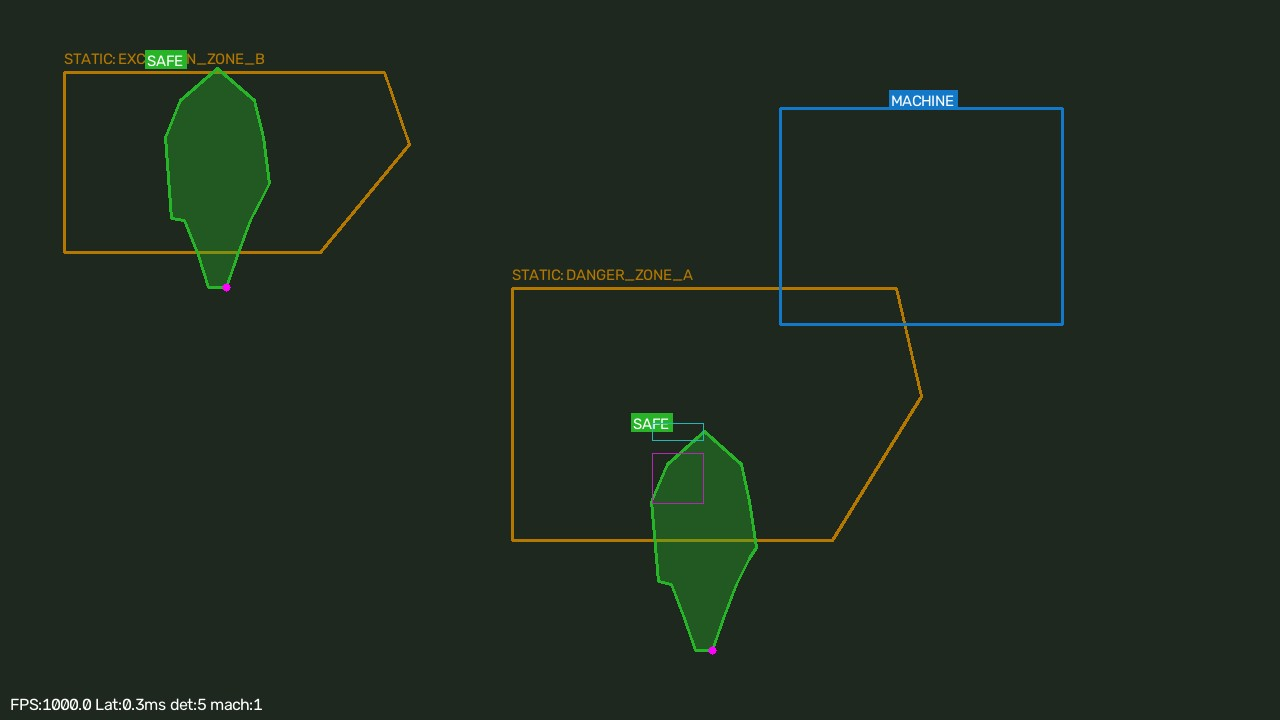
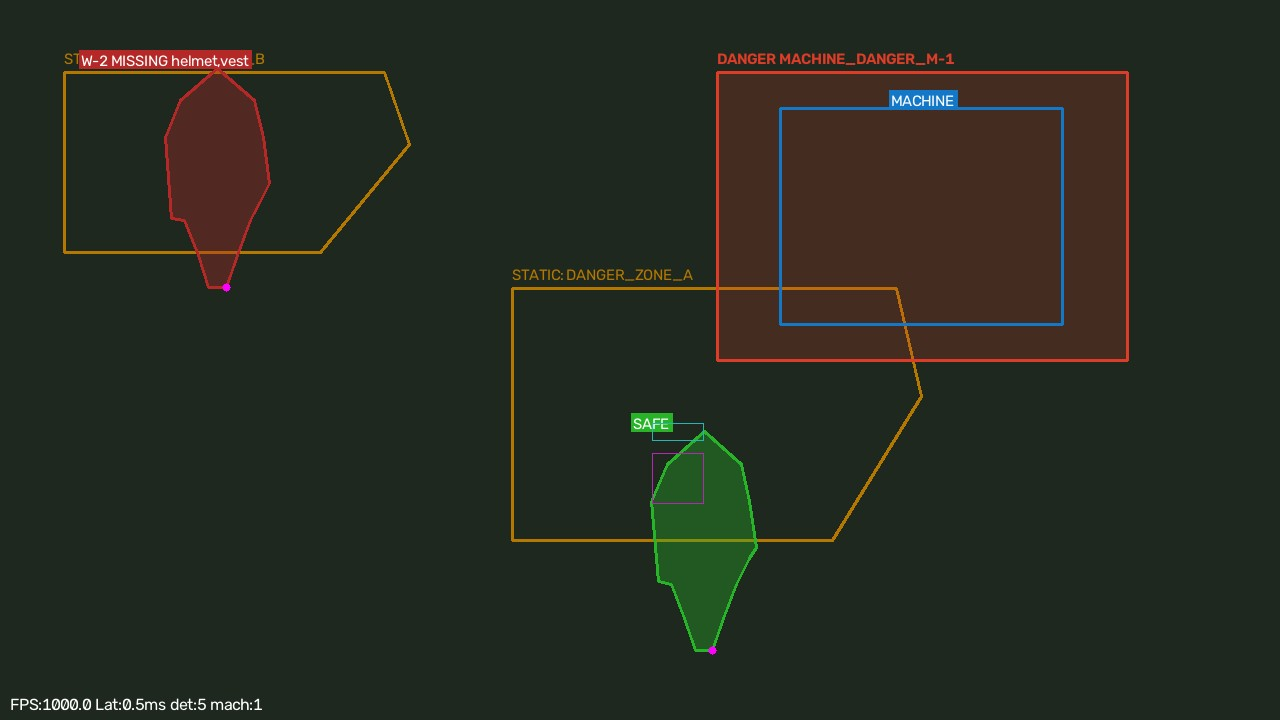
fix: render machine danger zones and violation coloring correctly
- draw_detections now accepts worker_ids so violation highlighting matches
  the tracker's W-N labels (was deriving bogus W-{pixel*1000} labels)
- generate_dashboard_image feeds normalized machine boxes to the tracker so
  the dynamic MACHINE_DANGER zone polygon is drawn at the right place
- regenerate showcase preview with machine zone + violation colors visible

Changed region(s): [[0.5312, 0.0611, 0.9062, 0.5194], [0.0625, 0.0611, 0.2188, 0.3972]]

diff --git a/src/isip/vision/renderer.py b/src/isip/vision/renderer.py
@@ -7,6 +7,10 @@ node, dashboard images and legacy pipeline all render the same world:
   is available, otherwise the bounding box;
 - machines get a highlighted bbox plus their dynamic danger zone;
 - static geofences and dynamic machine zones are visually distinct.
+
+Coordinate convention: all geometry handed to the renderer is either already
+pixel-sized (``Detection`` boxes/polygons) or normalized-and-then-scaled by the
+helper itself (zones). Nothing here invents positions.
 """
 
 from __future__ import annotations
@@ -24,12 +28,11 @@ from .zones import DynamicZone
 _SCHEME = {
     "person_safe": (40, 180, 40),
     "person_violation": (40, 40, 180),
-    "person_zone": (40, 40, 200),
     "helmet": (180, 180, 40),
     "vest": (180, 40, 180),
     "gloves": (40, 120, 180),
     "machine": (200, 120, 20),
-    "machine_zone": (40, 60, 220),
+    "machine_zone": (40, 60, 220),  # bright blue danger zone
     "static_zone": (0, 120, 180),
     "static_zone_active": (0, 0, 180),
 }
@@ -60,21 +63,32 @@ def _draw_person_shape(frame: np.ndarray, det: Detection, color, viz: Visualizat
 def draw_detections(frame: np.ndarray, detections: List[Detection],
                     violations: List[Tuple[str, str, float]],
                     machine_ids: Optional[Dict[int, Optional[str]]] = None,
+                    worker_ids: Optional[List[str]] = None,
                     viz: Optional[VisualizationConfig] = None) -> None:
-    """Draw all detections; violations tie workers to their missing gear."""
+    """Draw all detections; violations tie workers to their missing gear.
+
+    Persons are matched to ``violations`` by the same stable ``W-N`` labels the
+    tracker emits. ``worker_ids`` must line up 1:1 with the person detections;
+    when omitted a position-derived label is used as a fallback.
+    """
     viz = viz or VisualizationConfig()
+    person_idx = 0  # index into worker_ids for person detections only
 
     for idx, det in enumerate(detections):
         x1, y1, x2, y2 = int(det.x1), int(det.y1), int(det.x2), int(det.y2)
         if det.is_person:
-            label = f"W-{int(det.bbox_center[0] * 1000)}"
+            if worker_ids is not None and person_idx < len(worker_ids):
+                label = worker_ids[person_idx]
+            else:
+                label = f"W-{int(det.bbox_center[0] * 1000)}"
+            person_idx += 1
             if any(v[0] == label for v in violations):
                 color = _SCHEME["person_violation"]
             else:
                 color = _SCHEME["person_safe"]
             _draw_person_shape(frame, det, color, viz)
             missing = [v[1] for v in violations if v[0] == label]
-            tag = f"W{label[-4:]} MISSING {','.join(missing)}" if missing else "SAFE"
+            tag = f"{label} MISSING {','.join(missing)}" if missing else "SAFE"
             _draw_box_label(frame, x1, y1, tag, color)
         elif det.class_name == "helmet":
             cv2.rectangle(frame, (x1, y1), (x2, y2), _SCHEME["helmet"], 1)

diff --git a/scripts/generate_dashboard_image.py b/scripts/generate_dashboard_image.py
@@ -40,10 +40,7 @@ violations = evaluate_ppe(workers, detections, settings.vision, worker_ids=worke
 
 machines = [d for d in detections if d.class_name == "machine"]
 machine_tracker = MachineTracker(iou_threshold=0.3, max_age=10)
-tracks = [
-    t for t in machine_tracker.update([(m.x1, m.y1, m.x2, m.y2) for m in machines])
-    if t is not None
-]
+tracks = [t for t in machine_tracker.update([m.norm_bbox for m in machines]) if t is not None]
 dynamic = DynamicZoneEngine().update(tracks)
 
 active = set()
@@ -55,7 +52,8 @@ for worker in workers:
 # Render with the shared renderer
 draw_static_zones(frame, geofences, active, viz=settings.visualization)
 draw_dynamic_zones(frame, dynamic, viz=settings.visualization)
-draw_detections(frame, detections, violations, viz=settings.visualization)
+draw_detections(frame, detections, violations, worker_ids=workers_ids,
+                viz=settings.visualization)
 draw_status_bar(frame, max(detector.latency_ms and 1000.0 / max(detector.latency_ms, 1.0), 0),
                 detector.latency_ms, len(detections), len(machines))
 
